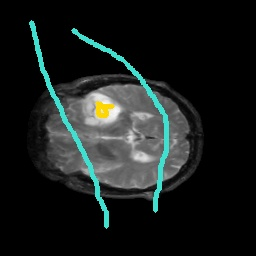
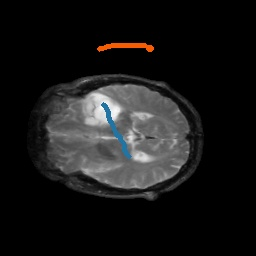
up

Changed region(s): [[0.2812, 0.0938, 0.6875, 0.8438], [0.0938, 0.0625, 0.4375, 0.9062], [0.3438, 0.375, 0.5312, 0.625]]

diff --git a/script/main.py b/script/main.py
@@ -16,9 +16,11 @@ lmbd=27
 infinity=1000000
 
 ## Recup Pixel
-color_mode=0
-F_px={}
-B_px={}
+current_class=0
+Nb_class=2
+Px=[]
+for i in range(Nb_class):
+    Px.append({})
 
 def BGRtoLalphabeta(img_in):
     split_src = cv2.split(img_in)
@@ -48,23 +50,17 @@ def pdf(value, mean, sigma) :
     pdf = (1/(sigma*np.sqrt(2*3.14)))*expo
     return pdf
 
-def balanceWeightsForm(value, meanForm, sigmaForm,meanBack, sigmaBack) :
-    pdfForm = pdf(value, meanForm, sigmaForm)
-    pdfBack = pdf(value, meanBack, sigmaBack)
-    balanceW = pdfForm/(pdfForm+pdfBack)
-    return balanceW
+def computeWeight(img,means,sigmas):
+    pdf_value=[]
+    for k in range(Nb_class):
+        pdf_value.append(pdf(img,means[k],sigmas[k]))
 
-def balanceWeightsBack(value, meanForm, sigmaForm,meanBack, sigmaBack) :
-    pdfForm = pdf(value, meanForm, sigmaForm)
-    pdfBack = pdf(value, meanBack, sigmaBack)
-    balanceW = pdfBack/(pdfForm+pdfBack)
-    return balanceW
+    sum_pdf = np.sum(pdf_value,axis=0)
+    weight = pdf_value/sum_pdf
+    sum_weight=weight[:,:,:,0]
+    for i in range(1,weight.shape[3]):
+        sum_weight += weight[:,:,:,i]
 
-def balanceToweight(weight):
-    sum_weight=weight[:,:,0]
-    for i in range(1,weight.shape[2]):
-        sum_weight += weight[:,:,i]
-    sum_weight/=weight.shape[2]
     return -lmbd*np.log(sum_weight)
 
 def wij(x,y,sigma=1) :
@@ -72,48 +68,50 @@ def wij(x,y,sigma=1) :
     return math.exp(-factor)
 
 def computeSegmentation(image):
-
     img = image
 
-    F_pdf_mean,F_pdf_sigma = computePdf(list(F_px.values()))
-    B_pdf_mean,B_pdf_sigma = computePdf(list(B_px.values()))
+    means=[]
+    sigmas=[]
+    for i in range(Nb_class):
+        mean,sigma = computePdf(list(Px[i].values()))
+        means.append(mean)
+        sigmas.append(sigma)
 
     # Create the graph.
     g = maxflow.Graph[float]()
 
-    # Add the nodes. nodeids has the identifiers of the nodes in the grid.
-    nodeids = g.add_grid_nodes((img.shape[0],img.shape[1]))
+    nodeids = g.add_grid_nodes((Nb_class-1,img.shape[0],img.shape[1]))
+    for k in range(Nb_class-1):
+        for i in range(img.shape[0]-1) :
+            for j in range(img.shape[1]-1) :
 
-    g.add_grid_tedges(nodeids, balanceToweight(balanceWeightsBack(img,F_pdf_mean,F_pdf_sigma,B_pdf_mean,B_pdf_sigma)), balanceToweight(balanceWeightsForm(img,F_pdf_mean,F_pdf_sigma,B_pdf_mean,B_pdf_sigma)))
+                gX = wij(img[i][j],img[i][j+1])
+                gY = wij(img[i][j],img[i][j+1])
 
-    for i in F_px :
-        y = i[0]
-        x = i[1]
-        g.add_tedge(nodeids[y][x],infinity,0)
+                g.add_edge(nodeids[k][i][j],nodeids[k][i+1][j],gX,0)
+                g.add_edge(nodeids[k][i][j],nodeids[k][i][j+1],gY,0)
 
-    for i in B_px :
-        y = i[0]
-        x = i[1]
-        g.add_tedge(nodeids[y][x],0,infinity)
-
-    # Add non-terminal edges with the same capacity.
-    #g.add_grid_edges(nodeids, 128)
-    for i in range(img.shape[0]-1) :
-        for j in range(img.shape[1]-1) :
-
-            gX = wij(img[i][j],img[i][j+1])
-            gY = wij(img[i][j],img[i][j+1])
-
-            g.add_edge(nodeids[i][j],nodeids[i+1][j],gX,0)
-            g.add_edge(nodeids[i][j],nodeids[i][j+1],gY,0)
+    for k in range(Nb_class-1):
+        weight = computeWeight(img,means,sigmas)
+        if k == 0:
+            g.add_grid_tedges(nodeids[k],weight[k],infinity)
+        elif k == Nb_class-1:
+            g.add_grid_tedges(nodeids[k-1],infinity,weight[k])
+        else:
+            for i in range(img.shape[0]) :
+                for j in range(img.shape[1]) :
+                    g.add_edge(nodeids[k-1][i][j],nodeids[k][i][j],weight[k][i][j],infinity)
 
     # Find the maximum flow.
     g.maxflow()
     # Get the segments of the nodes in the grid.
     sgm = g.get_grid_segments(nodeids)
 
+    print(sgm.shape)
+
     # The labels should be 1 where sgm is False and 0 otherwise.
     result = np.int_(np.logical_not(sgm))
+    result = np.sum(result,axis=0)
 
     ppl.imshow(result,cmap="plasma")
     ppl.show()
@@ -121,10 +119,16 @@ def computeSegmentation(image):
 def paint_draw(event,former_x,former_y,flags,param):
     global current_former_x,current_former_y,drawing, mode
 
-    if color_mode==0:
-        color = (0,215,255)
-    else:
-        color = (208,224,64)
+    if current_class==0:
+        color = (165,116,34)
+    elif current_class==1:
+        color = (3,92,247)
+    elif current_class==2:
+        color = (15,196,241)
+    elif current_class==3:
+        color = (104,3,217)
+    elif current_class==4:
+        color = (102,204,0)
 
     if event==cv2.EVENT_LBUTTONDOWN:
         drawing=True
@@ -133,10 +137,7 @@ def paint_draw(event,former_x,former_y,flags,param):
     elif event==cv2.EVENT_MOUSEMOVE:
         if drawing==True:
             if mode==True:
-                if color_mode==0:
-                    B_px[(former_y,former_x)]=originals_image[former_y][former_x]
-                else :
-                    F_px[(former_y,former_x)]=originals_image[former_y][former_x]
+                Px[current_class][(former_y,former_x)]=originals_image[former_y][former_x][0]
                 cv2.line(image,(current_former_x,current_former_y),(former_x,former_y),color,3)
                 current_former_x = former_x
                 current_former_y = former_y
@@ -144,10 +145,7 @@ def paint_draw(event,former_x,former_y,flags,param):
     elif event==cv2.EVENT_LBUTTONUP:
         drawing=False
         if mode==True:
-            if color_mode==0:
-                B_px[(former_y,former_x)]=originals_image[former_y][former_x][0]
-            else :
-                F_px[(former_y,former_x)]=originals_image[former_y][former_x][0]
+            Px[current_class][(former_y,former_x)]=originals_image[former_y][former_x][0]
             cv2.line(image,(current_former_x,current_former_y),(former_x,former_y),color,3)
             current_former_x = former_x
             current_former_y = former_y
@@ -195,13 +193,22 @@ if __name__ == "__main__":
             cv2.imwrite('painted_image.jpg',image)
             break
 
-        if k==114: #R Key
-            color_mode=0
-
         if k==98: #B Key
-            color_mode=1
+            current_class=0
 
         if k==99: #C Key
+            current_class=1
+
+        if k==100 and Nb_class>2: #D Key
+            current_class=2
+
+        if k==101 and Nb_class>3: #E Key
+            current_class=3
+
+        if k==102 and Nb_class>4: #F Key
+            current_class=4
+
+        if k==97: #A Key
             computeSegmentation(originals_image)
 
     cv2.destroyAllWindows()
